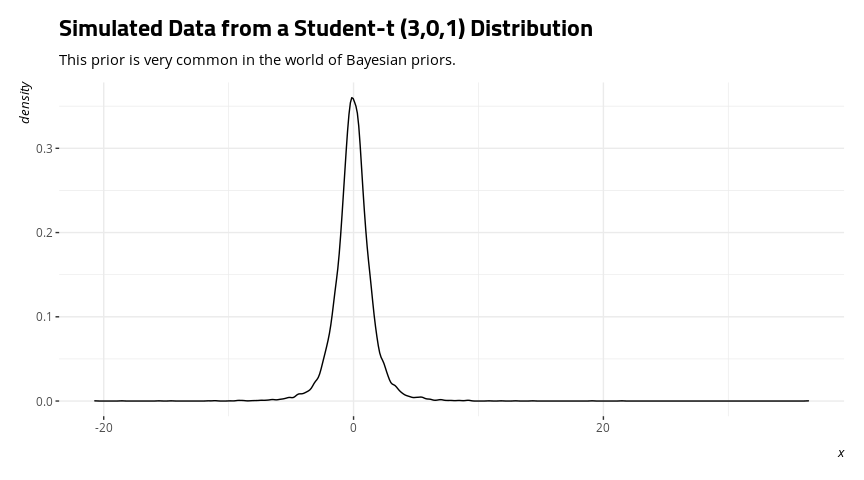
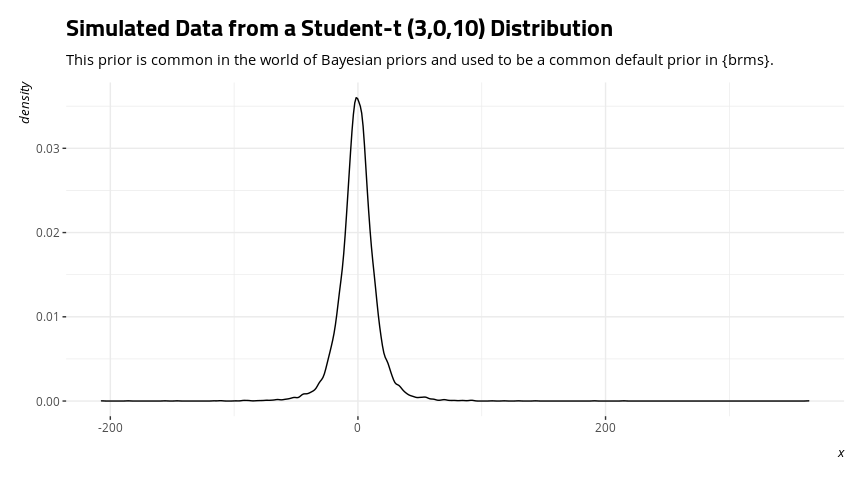
fsfss

diff --git a/README.md b/README.md
@@ -9,29 +9,29 @@
 <img src="http://svmiller.com/images/stevemisc-hexlogo.png" alt="My stevemisc hexlogo" align="right" width="200" style="padding: 0 15px; float: right;"/>
 
 `{stevemisc}` is an R package that includes various functions and tools
-that I have written over the years to assist me in my research. I offer
-it here for a public release because 1) I am vain and think I privately
-want an entire, eponymous ecosystem in the R programming language
-(i.e. the “steveverse”) and 2) I think there are tools here that are
-broadly useful for users that I’m trying to bundle with other things
-that I offer (prominently
+that I have written over the years to assist me in my research,
+teaching, and public presentations (i.e. stuff I put on my blog). I
+offer it here for a public release because 1) I am vain and think I want
+an entire, eponymous ecosystem in the R programming language (i.e. the
+“steveverse”) and 2) I think there are tools here that are broadly
+useful for users that I’m trying to bundle with other things that I
+offer (prominently
 [`{steveproj}`](https://github.com/svmiller/steveproj)). Namely,
-`{stevemisc}` offers some tools to assist in data organization, data
+`{stevemisc}` offers tools to assist in data organization, data
 presentation, data recoding, and data simulation. The usage section will
 elaborate some of its uses.
 
 ## Installation
 
-When the time comes, you can install this on CRAN.
+You can install this on CRAN.
 
 ``` r
 install.packages("stevemisc")
 ```
 
-Right now, this package in development and is not available on CRAN. You
-can install the development version of `{stevemisc}` from Github via the
-`{devtools}` package. I suppose using the `{remotes}` package would work
-as well.
+You can install the development version of `{stevemisc}` from Github via
+the `{devtools}` package. I suppose using the `{remotes}` package would
+work as well.
 
 ``` r
 devtools::install_github("svmiller/stevemisc")
@@ -133,18 +133,18 @@ corvectors(cbind(runif(nobs, 0, 100),
   as.data.frame() %>% as_tibble() %>%
   rename(meals = V1, colgrad = V2, fullqual = V3)
 #> # A tibble: 1,000 x 3
-#>    meals colgrad fullqual
-#>    <dbl>   <dbl>    <dbl>
-#>  1 53.0   11.5       96.8
-#>  2 84.0   12.4       68.9
-#>  3  3.34  22.9       95.2
-#>  4 88.0    1.65      91.1
-#>  5 93.3    2.66      91.6
-#>  6 96.8   21.3       71.8
-#>  7 75.9    3.04      90.0
-#>  8 53.6   14.8       36.7
-#>  9 86.2    0.668     90.4
-#> 10 87.4    6.38      46.2
+#>     meals colgrad fullqual
+#>     <dbl>   <dbl>    <dbl>
+#>  1 17.9      32.4     98.4
+#>  2 10.5      39.5     99.4
+#>  3 17.0      21.8     98.4
+#>  4 75.5      10.2     79.4
+#>  5 71.6      16.0     68.5
+#>  6 72.0      14.3     91.6
+#>  7 65.3      13.5     74.4
+#>  8 95.2      20.3     93.9
+#>  9  0.100    61.3     98.3
+#> 10  9.58     34.6     93.1
 #> # … with 990 more rows
 ```
 
@@ -457,7 +457,8 @@ with it, the `usa_mids` data frame that has all militarized interstate
 disputes for the United States in non-directed dyad-year form from the
 Gibler-Miller-Little (“GML”) data. `ps_btscs()` is a more general
 version of `sbtscs()` that performs well when NAs bracket the event
-data.
+data. The latter function features prominently in
+[`{peacesciencer}`](http://svmiller.com/peacesciencer).
 
 ``` r
 # ?usa_mids
@@ -505,7 +506,7 @@ disagree” and the 1s to be “strongly agree.” This function passes over
 NAs you may have in your variable. It assumes that the observed values
 include both the minimum and the maximum and that the increments between
 them are 1. This is usually the case in a discrete ordered-categorical
-variable (like a Likert item).
+variable (like a Likert item). Use this function with that in mind.
 
 ``` r
 tibble(x = c(1:10),
@@ -605,8 +606,10 @@ few things. I’ve since moved to `theme_steve_web()` for most things now,
 prominently on my website. It incorporates the “Open Sans” and
 “Titillium Web” fonts that I like so much. `post_bg()` is for changing
 the backgrounds on plots to better match my website for posts that I
-write. `theme_steve_ms()` is a new addition that uses “Crimson Text”
-fonts to match my plots to my LaTeX manuscripts.
+write. `theme_steve_ms()` is a new addition that uses [the “Crimson
+Text” font](https://fonts.google.com/specimen/Crimson+Text) to match
+my plots to my LaTeX manuscripts. For those unaware, “Crimson Text” is
+basically what [`cochineal`](https://ctan.org/pkg/cochineal?lang=en) is.
 
 ``` r
 mtcars %>%
@@ -645,7 +648,7 @@ mtcars %>%
 
 ### The Student-t Distribution (Location-Scale Version)
 
-Finally, i added a few functions for extending the “standard”
+Finally, I added a few functions for extending the “standard”
 t-distribution in R into the three-parameter “location-scale” version.
 This generalizes the Student-t and is useful for getting acclimated with
 more general Student-t distributions, which are quite common in Bayesian
@@ -654,17 +657,17 @@ analyses. `dst()` (density), `pst()` (distribution function), `qst()`
 for example, is using `rst()` to simulate data from one of the most
 common Student-t distributions in the world of Bayesian priors: the one
 with three degrees of freedom, a mean of 0, and a standard deviation of
-1.
+10.
 
 ``` r
-dat <- tibble(x = rst(10000, 3, 0, 1))
+dat <- tibble(x = rst(10000, 3, 0, 10))
 
 dat %>%
   ggplot(.,aes(x)) +
   geom_density() +
   theme_steve_web() +
-  labs(title = "Simulated Data from a Student-t (3,0,1) Distribution",
-       subtitle = "This prior is very common in the world of Bayesian priors.")
+  labs(title = "Simulated Data from a Student-t (3,0,10) Distribution",
+       subtitle = "This prior is common in the world of Bayesian priors and used to be a common default prior in {brms}.")
 ```
 
 <img src="man/figures/README-unnamed-chunk-18-1.png" width="80%" style="display: block; margin: auto;" />
